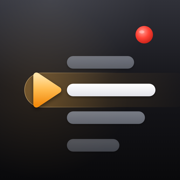
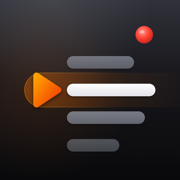
Telegron: nome novo e laranja em degrade da GRON
- Nome do app Telegron: titulo, rotulo da tela de inicio do iPhone, manifesto,
  README e rodape dos Ajustes; cache offline renovado para quem ja instalou
- Amarelo trocado pelo laranja da GRON, valores do Manual de Identidade V1:
  degrade #FFA200, #F86C00 (52%), #EE3A00, com o angulo do formato da peca
  (115 nos botoes, 135 no play e nos interruptores, 90 na linha de progresso
  e nos deslizantes); acento #FF8A1E; no modo claro, texto pequeno em #EE3A00
- Seta da linha de leitura e numero da contagem em degrade
- Icone com a seta e a faixa no degrade da GRON
- O preset de cor de leitura Amarelo continua (e cor do texto do roteiro)

Changed region(s): [[0.1111, 0.3889, 0.3611, 0.6111]]

diff --git a/index.html b/index.html
@@ -3,14 +3,14 @@
 <head>
 <meta charset="utf-8">
 <meta name="viewport" content="width=device-width,initial-scale=1,viewport-fit=cover,interactive-widget=resizes-content">
-<title>Prompter Studio</title>
+<title>Telegron</title>
 <meta name="theme-color" content="#09090b">
 <meta name="color-scheme" content="dark light">
 <meta name="format-detection" content="telephone=no,email=no,address=no,date=no">
 <meta name="apple-mobile-web-app-capable" content="yes">
 <meta name="mobile-web-app-capable" content="yes">
 <meta name="apple-mobile-web-app-status-bar-style" content="black-translucent">
-<meta name="apple-mobile-web-app-title" content="Prompter">
+<meta name="apple-mobile-web-app-title" content="Telegron">
 <script>
 /* Tema antes de pintar: sem piscar o tema errado. Automático segue o celular. */
 (function () {
@@ -32,14 +32,14 @@
 <link rel="preconnect" href="https://fonts.gstatic.com" crossorigin>
 <link rel="stylesheet" href="https://fonts.googleapis.com/css2?family=Archivo+Black&family=Atkinson+Hyperlegible:wght@400;700&family=Inter:opsz,wght@14..32,400..800&family=Manrope:wght@400..800&display=swap">
 <style>
-/* Prompter Studio. Feito para iPhone e Android de ponta: título grande, lista em vez de grade,
+/* Telegron. Feito para iPhone e Android de ponta: título grande, lista em vez de grade,
    ações embaixo no alcance do polegar, teclas com relevo, vidro sobre o texto do prompter.
    Tema escuro ou claro (automático segue o celular); a tela de leitura é sempre a do roteiro. */
 :root,#prompter,:root[data-theme="light"] .feature .f-row{
   --bg:#09090b; --surface:#141417; --surface-2:#1c1c20; --surface-3:#28282d; --field:#131316;
   --hair:rgba(255,255,255,.075); --hair-2:rgba(255,255,255,.13);
   --fg:#f5f5f7; --fg-2:rgba(235,235,245,.64); --fg-3:rgba(235,235,245,.38);
-  --accent-text:#ffb547; --danger:#ff5d52;
+  --accent-text:#FF8A1E; --danger:#ff5d52;
   --card-lift:inset 0 1px 0 rgba(255,255,255,.035),0 1px 2px rgba(0,0,0,.35);
   --key:linear-gradient(180deg,#2c2c32,#1f1f24); --key-h:linear-gradient(180deg,#35353c,#28282e); --key-p:linear-gradient(180deg,#1c1c21,#222227);
   --key-edge:rgba(255,255,255,.085);
@@ -56,7 +56,7 @@
   --bg:#f2f2f6; --surface:#ffffff; --surface-2:#f4f4f7; --surface-3:#e6e6eb; --field:#ffffff;
   --hair:rgba(0,0,0,.08); --hair-2:rgba(0,0,0,.15);
   --fg:#111114; --fg-2:rgba(60,60,67,.76); --fg-3:rgba(60,60,67,.46);
-  --accent-text:#a65d00; --danger:#e0352b;
+  --accent-text:#EE3A00; --danger:#d42f25;
   --card-lift:0 1px 2px rgba(0,0,0,.05),0 4px 14px -6px rgba(0,0,0,.1);
   --key:linear-gradient(180deg,#ffffff,#f2f2f5); --key-h:linear-gradient(180deg,#fbfbfd,#e9e9ee); --key-p:linear-gradient(180deg,#e6e6eb,#eeeef2);
   --key-edge:rgba(0,0,0,.1);
@@ -70,10 +70,13 @@
   color-scheme:light;
 }
 :root{
-  --accent:#ffb547; --accent-ink:#2a1a00;
-  --amber:linear-gradient(180deg,#ffc86d,#f8a634); --amber-h:linear-gradient(180deg,#ffd187,#ffb244); --amber-p:linear-gradient(180deg,#ee9f2e,#f4a93d);
-  --amber-lift:inset 0 1px 0 rgba(255,255,255,.5),inset 0 -1px 0 rgba(140,80,0,.25),0 1px 1.5px rgba(0,0,0,.4),0 3px 8px -2px rgba(0,0,0,.4);
-  --amber-sunk:inset 0 1.5px 3px rgba(120,60,0,.45);
+  /* laranja GRON, valores do Manual de Identidade V1: o ângulo acompanha o formato da peça */
+  --accent:#FF8A1E; --accent-ink:#ffffff;
+  --grad:linear-gradient(115deg,#FFA200 0%,#F86C00 52%,#EE3A00 100%);
+  --grad-sq:linear-gradient(135deg,#FFA200 0%,#F86C00 52%,#EE3A00 100%);
+  --grad-line:linear-gradient(90deg,#FFA200,#EE3A00);
+  --grad-lift:inset 0 1px 0 rgba(255,255,255,.34),inset 0 -1px 0 rgba(110,25,0,.3),0 1px 1.5px rgba(0,0,0,.4),0 3px 8px -2px rgba(0,0,0,.4);
+  --grad-sunk:inset 0 1.5px 3px rgba(100,20,0,.5);
   --toast-bg:rgba(36,36,42,.86);
   /* fonte do app; a do roteiro é escolhida nos Ajustes e não depende desta */
   --ui:"Manrope",system-ui,-apple-system,"Helvetica Neue",Arial,sans-serif;
@@ -98,9 +101,10 @@ label[for]{cursor:pointer}
 .btn,.round,.chip,.step,.color,.item-play,.del{background:var(--key);border:1px solid var(--key-edge);box-shadow:var(--key-lift);color:var(--fg);transition:background .15s,box-shadow .15s,transform .1s,color .15s}
 @media (hover:hover){.btn:hover,.round:hover,.chip:hover,.step:hover,.color:hover,.item-play:hover,.del:hover{background:var(--key-h)}}
 .btn:active,.round:active,.chip:active,.step:active,.color:active,.item-play:active,.del:active{background:var(--key-p);box-shadow:var(--key-sunk);transform:translateY(1px)}
-.btn.primary,.play{background:var(--amber);border:1px solid rgba(255,214,150,.6);color:var(--accent-ink);box-shadow:var(--amber-lift);text-shadow:0 1px 0 rgba(255,255,255,.25)}
-@media (hover:hover){.btn.primary:hover,.play:hover{background:var(--amber-h)}}
-.btn.primary:active,.play:active{background:var(--amber-p);box-shadow:var(--amber-sunk);transform:translateY(1px)}
+.btn.primary,.play{background:var(--grad);border:1px solid rgba(255,170,90,.55);color:var(--accent-ink);box-shadow:var(--grad-lift);text-shadow:0 1px 1px rgba(110,25,0,.35);transition:filter .15s,box-shadow .15s,transform .1s}
+.play{background:var(--grad-sq)}
+@media (hover:hover){.btn.primary:hover,.play:hover{filter:brightness(1.07) saturate(1.04)}}
+.btn.primary:active,.play:active{filter:brightness(.93);box-shadow:var(--grad-sunk);transform:translateY(1px)}
 .btn{display:inline-flex;align-items:center;justify-content:center;gap:8px;height:48px;padding:0 18px;border-radius:14px;font-size:16px;font-weight:600;letter-spacing:-.01em;white-space:nowrap}
 .btn.lg{height:54px;border-radius:16px;font-size:17px;padding:0 20px}
 .btn.sm{height:36px;padding:0 14px;border-radius:11px;font-size:15px}
@@ -154,10 +158,9 @@ label[for]{cursor:pointer}
 .screen{position:relative;display:block;width:100%;height:124px;overflow:hidden;text-align:left;background:#000}
 .screen:focus-visible{outline-offset:-3px}
 .screen-text{position:absolute;inset:0;padding:18px 18px 0 32px;font-size:19px;font-weight:600;-webkit-mask-image:linear-gradient(to bottom,#000 0,#000 52%,transparent 100%);mask-image:linear-gradient(to bottom,#000 0,#000 52%,transparent 100%);overflow-wrap:anywhere}
-.screen-cue{position:absolute;left:0;right:0;top:18px;height:25px;pointer-events:none;background:linear-gradient(90deg,rgba(255,181,71,.16),rgba(255,181,71,.04) 60%,transparent)}
-.screen-cue::before{content:"";position:absolute;left:0;top:50%;transform:translateY(-50%);border-left:11px solid var(--accent);border-top:8px solid transparent;border-bottom:8px solid transparent}
-:root[data-theme="light"] .screen-cue{background:linear-gradient(90deg,rgba(255,165,30,.2),rgba(255,165,30,.05) 60%,transparent)}
-:root[data-theme="light"] .screen-cue::before{border-left-color:#f29a1e}
+.screen-cue{position:absolute;left:0;right:0;top:18px;height:25px;pointer-events:none;background:linear-gradient(90deg,rgba(248,108,0,.2),rgba(248,108,0,.05) 60%,transparent)}
+.screen-cue::before{content:"";position:absolute;left:0;top:50%;transform:translateY(-50%);background:var(--grad-sq);clip-path:polygon(0 0,100% 50%,0 100%);width:11px;height:16px}
+:root[data-theme="light"] .screen-cue{background:linear-gradient(90deg,rgba(248,108,0,.16),rgba(248,108,0,.04) 60%,transparent)}
 :root[data-theme="light"] .screen-text .note{color:var(--accent-text);opacity:1}
 .f-row{display:flex;align-items:center;gap:12px;padding:13px 14px 14px 16px;border-top:1px solid var(--hair)}
 .f-info{flex:1;min-width:0}
@@ -252,10 +255,11 @@ label[for]{cursor:pointer}
 #prompter{position:fixed;inset:0;z-index:20;background:#000;overflow:hidden;color:var(--fg);-webkit-user-select:none;user-select:none}
 #stage{position:absolute;inset:0;overflow:hidden;touch-action:none;cursor:grab;-webkit-touch-callout:none}
 #content{will-change:transform;font-weight:600}
-#cue{position:absolute;left:0;right:0;transform:translateY(-50%);pointer-events:none;background:linear-gradient(90deg,rgba(255,181,71,.13),rgba(255,181,71,.04) 60%,transparent)}
-#cue::before{content:"";position:absolute;left:0;top:50%;transform:translateY(-50%);border-left:16px solid var(--accent);border-top:12px solid transparent;border-bottom:12px solid transparent}
+#cue{position:absolute;left:0;right:0;transform:translateY(-50%);pointer-events:none;background:linear-gradient(90deg,rgba(248,108,0,.17),rgba(248,108,0,.05) 60%,transparent)}
+#cue::before{content:"";position:absolute;left:0;top:50%;transform:translateY(-50%);background:var(--grad-sq);clip-path:polygon(0 0,100% 50%,0 100%);width:16px;height:24px}
 #countdown{position:absolute;inset:0;display:grid;place-items:center;font-family:var(--ui);font-weight:800;font-size:min(40vw,40vh);letter-spacing:-.04em;color:var(--accent);background:rgba(0,0,0,.6);pointer-events:none;font-variant-numeric:tabular-nums}
-#progress{position:absolute;top:0;left:0;height:3px;width:0;background:var(--accent);z-index:3;pointer-events:none}
+@supports (-webkit-background-clip:text) or (background-clip:text){#countdown span{background:var(--grad-sq);-webkit-background-clip:text;background-clip:text;color:transparent}}
+#progress{position:absolute;top:0;left:0;height:3px;width:0;background:var(--grad-line);z-index:3;pointer-events:none}
 .hud-top,.hud-bottom{position:absolute;left:0;right:0;z-index:2;transition:opacity .3s}
 .hud-top{top:0;display:flex;align-items:center;gap:8px;padding:calc(var(--st) + 10px) var(--gr) 0 var(--gl)}
 .hud-top .round{width:44px;height:44px}
@@ -296,7 +300,7 @@ label[for]{cursor:pointer}
 .slider{position:relative;height:44px;touch-action:pan-y;cursor:pointer;-webkit-user-select:none;user-select:none;outline:none;--p:50%}
 .slider .rail{position:absolute;left:14px;right:14px;top:0;bottom:0}
 .slider .track{position:absolute;left:0;right:0;top:50%;height:7px;margin-top:-3.5px;border-radius:4px;background:var(--well);box-shadow:var(--well-shadow);overflow:hidden}
-.slider .fill{position:absolute;left:0;top:0;bottom:0;width:calc(14px + (100% - 28px) * var(--f,.5));background:var(--amber)}
+.slider .fill{position:absolute;left:0;top:0;bottom:0;width:calc(14px + (100% - 28px) * var(--f,.5));background:var(--grad-line)}
 .slider .thumb{position:absolute;top:50%;left:var(--p);width:28px;height:28px;margin:-14px 0 0 -14px;border-radius:50%;background:linear-gradient(180deg,#fff,#e8e8ed);box-shadow:0 1px 1px rgba(0,0,0,.3),0 2px 7px rgba(0,0,0,.4),inset 0 -1px 0 rgba(0,0,0,.08);transition:transform .12s}
 @media (hover:hover){.slider:hover .thumb{transform:scale(1.06)}}
 .slider.dragging .thumb{transform:scale(1.1)}
@@ -321,7 +325,7 @@ label[for]{cursor:pointer}
 .sheet-bar h2{margin:0;font-size:22px;font-weight:800;letter-spacing:-.025em}
 .pv{position:relative;height:84px;margin-top:14px;overflow:hidden;border-radius:16px;border:1px solid var(--hair-2);display:flex;align-items:center;box-shadow:inset 0 1px 3px rgba(0,0,0,.4)}
 .pv-inner{width:100%;font-weight:600;white-space:nowrap;overflow:hidden}
-.pv-cue{position:absolute;left:0;top:50%;transform:translateY(-50%);border-left:12px solid var(--accent);border-top:9px solid transparent;border-bottom:9px solid transparent;z-index:1}
+.pv-cue{position:absolute;left:0;top:50%;transform:translateY(-50%);width:12px;height:18px;background:var(--grad-sq);clip-path:polygon(0 0,100% 50%,0 100%);z-index:1}
 .sheet-body{flex:1;min-height:0;overflow-y:auto;overscroll-behavior:contain;-webkit-overflow-scrolling:touch;padding:4px var(--gr) calc(var(--sb) + 28px) var(--gl)}
 @media (min-width:640px){.sheet-body{padding-bottom:28px}}
 
@@ -383,9 +387,9 @@ label[for]{cursor:pointer}
 .sw input{position:absolute;inset:0;opacity:0;margin:0;cursor:pointer;z-index:1}
 .sw span{position:absolute;inset:0;border-radius:99px;background:var(--well);box-shadow:var(--well-shadow);transition:background .2s;pointer-events:none}
 .sw span::after{content:"";position:absolute;top:2px;left:2px;width:27px;height:27px;border-radius:50%;background:linear-gradient(180deg,#fff,#ececf1);box-shadow:0 1px 3px rgba(0,0,0,.4),0 0 0 .5px rgba(0,0,0,.12);transition:transform .2s var(--ease)}
-.sw input:checked + span{background:var(--amber);box-shadow:inset 0 1px 2px rgba(120,60,0,.35)}
+.sw input:checked + span{background:var(--grad-sq);box-shadow:inset 0 1px 2px rgba(110,25,0,.35)}
 .sw input:checked + span::after{transform:translateX(20px)}
-@media (hover:hover){.sw:hover input:not(:checked) + span{background:var(--well-h)}.sw:hover input:checked + span{background:var(--amber-h)}}
+@media (hover:hover){.sw:hover input:not(:checked) + span{background:var(--well-h)}.sw:hover input:checked + span{filter:brightness(1.07)}}
 .sw input:focus-visible + span{outline:2px solid var(--accent);outline-offset:2px}
 .keys{padding:8px 0;font-size:15px;color:var(--fg)}
 .krow{display:flex;align-items:center;justify-content:space-between;gap:12px;padding:8px 0}
@@ -440,8 +444,8 @@ label[for]{cursor:pointer}
 <svg width="0" height="0" style="position:absolute" aria-hidden="true">
   <defs>
     <linearGradient id="mk-bg" x1="0" y1="0" x2="0" y2="1"><stop offset="0" stop-color="#303139"/><stop offset=".42" stop-color="#18181d"/><stop offset="1" stop-color="#09090b"/></linearGradient>
-    <linearGradient id="mk-amb" x1="0" y1="0" x2="0" y2="1"><stop offset="0" stop-color="#ffd585"/><stop offset="1" stop-color="#f7981a"/></linearGradient>
-    <linearGradient id="mk-band" x1="0" y1="0" x2="1" y2="0"><stop offset="0" stop-color="#ffb547" stop-opacity=".34"/><stop offset=".5" stop-color="#ffb547" stop-opacity=".10"/><stop offset="1" stop-color="#ffb547" stop-opacity="0"/></linearGradient>
+    <linearGradient id="mk-amb" x1="0" y1="0" x2="1" y2="1"><stop offset="0" stop-color="#FFA200"/><stop offset=".52" stop-color="#F86C00"/><stop offset="1" stop-color="#EE3A00"/></linearGradient>
+    <linearGradient id="mk-band" x1="0" y1="0" x2="1" y2="0"><stop offset="0" stop-color="#F86C00" stop-opacity=".34"/><stop offset=".5" stop-color="#F86C00" stop-opacity=".10"/><stop offset="1" stop-color="#F86C00" stop-opacity="0"/></linearGradient>
     <linearGradient id="mk-rec" x1="0" y1="0" x2="0" y2="1"><stop offset="0" stop-color="#ff7468"/><stop offset="1" stop-color="#e8352b"/></linearGradient>
   </defs>
   <symbol id="i-mark" viewBox="0 0 1024 1024"><rect width="1024" height="1024" rx="229" fill="url(#mk-bg)"/><rect x="138" y="414" width="886" height="196" rx="98" fill="url(#mk-band)"/><rect x="380" y="318" width="384" height="72" rx="36" fill="#9da2ae" opacity=".62"/><rect x="380" y="476" width="506" height="72" rx="36" fill="#f2f2f5"/><rect x="380" y="634" width="446" height="72" rx="36" fill="#9da2ae" opacity=".7"/><rect x="380" y="792" width="300" height="72" rx="36" fill="#9da2ae" opacity=".42"/><path d="M206 430 L330 512 L206 594 Z" fill="url(#mk-amb)" stroke="url(#mk-amb)" stroke-width="36" stroke-linejoin="round"/><circle cx="822" cy="196" r="50" fill="url(#mk-rec)"/></symbol>
@@ -732,7 +736,7 @@ label[for]{cursor:pointer}
           <div class="row"><span>Voltar tudo ao padrão</span><button class="btn sm btn-danger" id="sReset" type="button">Restaurar</button></div>
         </div>
       </div>
-      <p class="ver">Prompter Studio</p>
+      <p class="ver">Telegron</p>
     </div>
   </div>
 </div>
@@ -1280,8 +1284,9 @@ Quando terminar, apague este exemplo e crie o seu roteiro em Novo roteiro.`;
       wake();
       if (settings.countdown > 0 && P.pos < 2) {
         let n = settings.countdown; P.counting = true;
-        const el = $('#countdown'); el.textContent = n; el.hidden = false;
-        P.cd = setInterval(() => { n--; if (n <= 0) { clearInterval(P.cd); el.hidden = true; P.counting = false; } else el.textContent = n; }, 1000);
+        const el = $('#countdown'), put = (v) => { el.innerHTML = '<span>' + v + '</span>'; };
+        put(n); el.hidden = false;
+        P.cd = setInterval(() => { n--; if (n <= 0) { clearInterval(P.cd); el.hidden = true; P.counting = false; } else put(n); }, 1000);
       }
     }
   }

diff --git a/sw.js b/sw.js
@@ -1,5 +1,5 @@
-// Prompter Studio: funciona sem internet depois da primeira abertura.
-const CACHE = 'prompter-v4';
+// Telegron: funciona sem internet depois da primeira abertura.
+const CACHE = 'telegron-v5';
 const CORE = ['./', './index.html', './manifest.webmanifest', './icon-192.png', './icon-512.png', './icon-maskable-512.png', './icon.svg', './apple-touch-icon.png'];
 
 self.addEventListener('install', (e) => {

diff --git a/README.md b/README.md
@@ -1,4 +1,4 @@
-# Prompter Studio
+# Telegron
 
 Teleprompter para gravação, com espelhamento para teleprompter de vidro.
 
